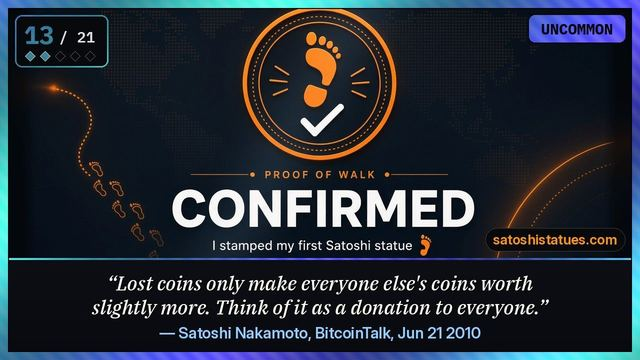
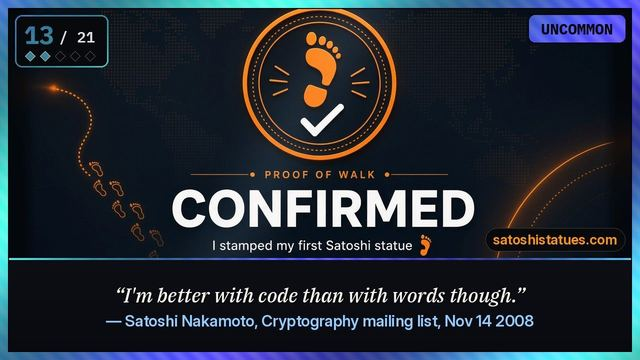
Cards page (PREVIEW, not live): card 13 = code-vs-words quote with its own note and source (cryptography/12), thumbnail regenerated; dialog classes prefixed (cd-*) to avoid clashing with site .bar/.body/.row; no empty img src

Changed region(s): [[0.125, 0.7639, 0.875, 0.9472]]

diff --git a/proof-of-walk/cards/index.html b/proof-of-walk/cards/index.html
@@ -129,13 +129,13 @@ footer.site{border-top:1px solid #30363d;margin-top:30px;padding-top:14px;font-s
 #cd{border:1px solid #30363d;border-radius:12px;padding:0;background:#161b22;color:#e6edf3;width:min(720px,94vw);max-height:92vh;margin:auto}
 #cd::backdrop{background:rgba(0,0,0,.85)}
 #cd img{display:block;width:100%;height:auto}
-#cd .body{padding:12px 16px 16px}
+#cd .cd-body{padding:12px 16px 16px}
 #cd .q{font-size:1.05rem;font-style:italic;margin:8px 0 4px}
 #cd .by{font-size:.85rem;color:#8b949e}
 #cd .n{font-size:.92rem;margin-top:10px}
-#cd .row{display:flex;gap:10px;flex-wrap:wrap;margin-top:12px}
-#cd .bar{display:flex;justify-content:space-between;align-items:center;padding:4px 6px 4px 16px;font-size:.85rem;color:#8b949e;border-bottom:1px solid #30363d}
-#cd .close{width:44px;height:44px;border-radius:50%;border:1px solid #30363d;background:#21262d;color:#e6edf3;font-size:1.1rem;cursor:pointer}
+#cd .cd-row{display:flex;gap:10px;flex-wrap:wrap;margin-top:12px}
+#cd .cd-bar{display:flex;justify-content:space-between;align-items:center;padding:4px 6px 4px 16px;font-size:.85rem;color:#8b949e;border-bottom:1px solid #30363d}
+#cd .cd-close{width:44px;height:44px;border-radius:50%;border:1px solid #30363d;background:#21262d;color:#e6edf3;font-size:1.1rem;cursor:pointer}
 .share-list{list-style:none;display:grid;gap:8px;margin:10px 0}
 .share-list a{display:flex;align-items:center;gap:10px;min-height:44px;padding:8px 12px;border:1px solid #30363d;border-radius:8px;background:#161b22;color:#e6edf3;text-decoration:none;font-size:.92rem}
 .share-list a:hover{border-color:#f7931a;color:#f7931a}
@@ -201,7 +201,7 @@ footer.site{border-top:1px solid #30363d;margin-top:30px;padding-top:14px;font-s
 <li><a class="cc t-common" href="/img/pow-share/confirmed/10.jpg" data-n="10" data-tier="Common" data-quote="We have proposed a system for electronic transactions without relying on trust." data-by="Bitcoin whitepaper, 2008" data-note="The first line of the Bitcoin whitepaper’s conclusion (2008)." data-link="https://bitcoin.org/bitcoin.pdf"><img src="/img/pow-share/thumbs/confirmed/10.jpg" width="640" height="360" loading="lazy" decoding="async" alt="Card 10 of 21, Common: We have proposed a system for electronic transactions without relying on trust."><span class="cc-meta"><span class="cc-no">No. 10</span><span class="tier t-common">Common</span></span><span class="cc-q">We have proposed a system for electronic transactions without relying on trust.</span></a></li>
 <li><a class="cc t-uncommon" href="/img/pow-share/confirmed/11.jpg" data-n="11" data-tier="Uncommon" data-quote="Proof-of-work is essentially one-CPU-one-vote." data-by="Bitcoin whitepaper, 2008" data-note="From section 4 of the Bitcoin whitepaper (2008). Proof of Walk is our walking version of proof-of-work." data-link="https://bitcoin.org/bitcoin.pdf"><img src="/img/pow-share/thumbs/confirmed/11.jpg" width="640" height="360" loading="lazy" decoding="async" alt="Card 11 of 21, Uncommon: Proof-of-work is essentially one-CPU-one-vote."><span class="cc-meta"><span class="cc-no">No. 11</span><span class="tier t-uncommon">Uncommon</span></span><span class="cc-q">Proof-of-work is essentially one-CPU-one-vote.</span></a></li>
 <li><a class="cc t-uncommon" href="/img/pow-share/confirmed/12.jpg" data-n="12" data-tier="Uncommon" data-quote="It might make sense just to get some in case it catches on." data-by="Satoshi Nakamoto, Cryptography list, Jan 16 2009" data-note="Satoshi Nakamoto on the Cryptography mailing list, January 16, 2009, a week after Bitcoin launched." data-link="https://satoshi.nakamotoinstitute.org/emails/cryptography/17/"><img src="/img/pow-share/thumbs/confirmed/12.jpg" width="640" height="360" loading="lazy" decoding="async" alt="Card 12 of 21, Uncommon: It might make sense just to get some in case it catches on."><span class="cc-meta"><span class="cc-no">No. 12</span><span class="tier t-uncommon">Uncommon</span></span><span class="cc-q">It might make sense just to get some in case it catches on.</span></a></li>
-<li><a class="cc t-uncommon" href="/img/pow-share/confirmed/13.jpg" data-n="13" data-tier="Uncommon" data-quote="" data-by="Satoshi Nakamoto, BitcoinTalk, Jun 21 2010" data-note="Satoshi Nakamoto on the BitcoinTalk forum, June 21, 2010, answering what happens to lost coins." data-link="https://bitcointalk.org/index.php?topic=198.msg1647#msg1647"><img src="/img/pow-share/thumbs/confirmed/13.jpg" width="640" height="360" loading="lazy" decoding="async" alt="Card 13 of 21, Uncommon"><span class="cc-meta"><span class="cc-no">No. 13</span><span class="tier t-uncommon">Uncommon</span></span><span class="cc-q">The saying is shown on the card.</span></a></li>
+<li><a class="cc t-uncommon" href="/img/pow-share/confirmed/13.jpg" data-n="13" data-tier="Uncommon" data-quote="I&#x27;m better with code than with words though." data-by="Satoshi Nakamoto, Cryptography mailing list, Nov 14 2008" data-note="Satoshi Nakamoto on the Cryptography mailing list, November 14, 2008, two weeks after sharing the whitepaper." data-link="https://satoshi.nakamotoinstitute.org/emails/cryptography/12/"><img src="/img/pow-share/thumbs/confirmed/13.jpg" width="640" height="360" loading="lazy" decoding="async" alt="Card 13 of 21, Uncommon: I&#x27;m better with code than with words though."><span class="cc-meta"><span class="cc-no">No. 13</span><span class="tier t-uncommon">Uncommon</span></span><span class="cc-q">I&#x27;m better with code than with words though.</span></a></li>
 <li><a class="cc t-uncommon" href="/img/pow-share/confirmed/14.jpg" data-n="14" data-tier="Uncommon" data-quote="If you don&#x27;t believe me or don&#x27;t get it, I don&#x27;t have time to try to convince you, sorry." data-by="Satoshi Nakamoto, BitcoinTalk, Jul 29 2010" data-note="Satoshi Nakamoto on the BitcoinTalk forum, July 29, 2010." data-link="https://bitcointalk.org/index.php?topic=532.msg6306#msg6306"><img src="/img/pow-share/thumbs/confirmed/14.jpg" width="640" height="360" loading="lazy" decoding="async" alt="Card 14 of 21, Uncommon: If you don&#x27;t believe me or don&#x27;t get it, I don&#x27;t have time to try to convince you, sorry."><span class="cc-meta"><span class="cc-no">No. 14</span><span class="tier t-uncommon">Uncommon</span></span><span class="cc-q">If you don&#x27;t believe me or don&#x27;t get it, I don&#x27;t have time to try to convince you, sorry.</span></a></li>
 <li><a class="cc t-uncommon" href="/img/pow-share/confirmed/15.jpg" data-n="15" data-tier="Uncommon" data-quote="The root problem with conventional currency is all the trust that&#x27;s required to make it work." data-by="Satoshi Nakamoto, P2P Foundation, Feb 11 2009" data-note="Satoshi Nakamoto introducing Bitcoin on the P2P Foundation forum, February 11, 2009." data-link="https://satoshi.nakamotoinstitute.org/posts/p2pfoundation/1/"><img src="/img/pow-share/thumbs/confirmed/15.jpg" width="640" height="360" loading="lazy" decoding="async" alt="Card 15 of 21, Uncommon: The root problem with conventional currency is all the trust that&#x27;s required to make it work."><span class="cc-meta"><span class="cc-no">No. 15</span><span class="tier t-uncommon">Uncommon</span></span><span class="cc-q">The root problem with conventional currency is all the trust that&#x27;s required to make it work.</span></a></li>
 <li><a class="cc t-uncommon" href="/img/pow-share/confirmed/16.jpg" data-n="16" data-tier="Uncommon" data-quote="…gain a new territory of freedom for several years." data-by="Satoshi Nakamoto, Cryptography list, Nov 6 2008" data-note="Satoshi Nakamoto on the Cryptography mailing list, November 6, 2008." data-link="https://satoshi.nakamotoinstitute.org/emails/cryptography/4/"><img src="/img/pow-share/thumbs/confirmed/16.jpg" width="640" height="360" loading="lazy" decoding="async" alt="Card 16 of 21, Uncommon: …gain a new territory of freedom for several years."><span class="cc-meta"><span class="cc-no">No. 16</span><span class="tier t-uncommon">Uncommon</span></span><span class="cc-q">…gain a new territory of freedom for several years.</span></a></li>
@@ -224,14 +224,14 @@ footer.site{border-top:1px solid #30363d;margin-top:30px;padding-top:14px;font-s
   </main>
 
   <dialog id="cd" aria-labelledby="cd-no">
-    <div class="bar"><span>Card details</span><button class="close" type="button" aria-label="Close">✕</button></div>
-    <img id="cd-img" src="" alt="">
-    <div class="body">
+    <div class="cd-bar"><span>Card details</span><button class="cd-close" type="button" aria-label="Close">✕</button></div>
+    <img id="cd-img" alt="">
+    <div class="cd-body">
       <span class="cc-no" id="cd-no"></span> <span class="tier" id="cd-tier"></span>
       <p class="q" id="cd-q"></p>
       <p class="by" id="cd-by"></p>
       <p class="n" id="cd-note"></p>
-      <div class="row"><a class="btn" id="cd-link" href="#" target="_blank" rel="noopener">Read the source ↗</a></div>
+      <div class="cd-row"><a class="btn" id="cd-link" href="#" target="_blank" rel="noopener">Read the source ↗</a></div>
     </div>
   </dialog>
 <script>
@@ -250,7 +250,7 @@ footer.site{border-top:1px solid #30363d;margin-top:30px;padding-top:14px;font-s
       d.showModal();
     });
   });
-  d.querySelector('.close').addEventListener('click',function(){d.close()});
+  d.querySelector('.cd-close').addEventListener('click',function(){d.close()});
   d.addEventListener('click',function(e){if(e.target===d)d.close()});
 })();
 </script>

diff --git a/build.py b/build.py
@@ -1846,8 +1846,8 @@ def pow_card_pages(data):
 
 
 # Card text for /proof-of-walk/cards/ (from the card set's sayings.json; notes from the cards-page draft).
-# n: (quote or None, attribution, plain-English note, source link or None). Card 13's quote is held back from the HTML
-# pending Noah's decision (its wording trips the fountain banned-word list); the page shows it only in the card image.
+# n: (quote or None, attribution, plain-English note, source link or None). A None quote is shown only in the card image.
+# Card 13 swapped to the code-vs-words quote (Noah 2026-10-31 08:40 ET).
 POW_CARD_TEXT = {
     1: ('Not your keys, not your coins.', 'Bitcoin saying', 'A popular Bitcoin saying. If someone else holds the keys to your bitcoin, they control it.', None),
     2: ("Don't trust, verify.", 'Bitcoin saying', 'A Bitcoin motto. Bitcoin lets anyone check the rules for themselves instead of trusting someone.', None),
@@ -1861,7 +1861,7 @@ POW_CARD_TEXT = {
     10: ('We have proposed a system for electronic transactions without relying on trust.', 'Bitcoin whitepaper, 2008', 'The first line of the Bitcoin whitepaper’s conclusion (2008).', 'https://bitcoin.org/bitcoin.pdf'),
     11: ('Proof-of-work is essentially one-CPU-one-vote.', 'Bitcoin whitepaper, 2008', 'From section 4 of the Bitcoin whitepaper (2008). Proof of Walk is our walking version of proof-of-work.', 'https://bitcoin.org/bitcoin.pdf'),
     12: ('It might make sense just to get some in case it catches on.', 'Satoshi Nakamoto, Cryptography list, Jan 16 2009', 'Satoshi Nakamoto on the Cryptography mailing list, January 16, 2009, a week after Bitcoin launched.', 'https://satoshi.nakamotoinstitute.org/emails/cryptography/17/'),
-    13: (None, 'Satoshi Nakamoto, BitcoinTalk, Jun 21 2010', 'Satoshi Nakamoto on the BitcoinTalk forum, June 21, 2010, answering what happens to lost coins.', 'https://bitcointalk.org/index.php?topic=198.msg1647#msg1647'),
+    13: ("I'm better with code than with words though.", 'Satoshi Nakamoto, Cryptography mailing list, Nov 14 2008', 'Satoshi Nakamoto on the Cryptography mailing list, November 14, 2008, two weeks after sharing the whitepaper.', 'https://satoshi.nakamotoinstitute.org/emails/cryptography/12/'),
     14: ("If you don't believe me or don't get it, I don't have time to try to convince you, sorry.", 'Satoshi Nakamoto, BitcoinTalk, Jul 29 2010', 'Satoshi Nakamoto on the BitcoinTalk forum, July 29, 2010.', 'https://bitcointalk.org/index.php?topic=532.msg6306#msg6306'),
     15: ("The root problem with conventional currency is all the trust that's required to make it work.", 'Satoshi Nakamoto, P2P Foundation, Feb 11 2009', 'Satoshi Nakamoto introducing Bitcoin on the P2P Foundation forum, February 11, 2009.', 'https://satoshi.nakamotoinstitute.org/posts/p2pfoundation/1/'),
     16: ('…gain a new territory of freedom for several years.', 'Satoshi Nakamoto, Cryptography list, Nov 6 2008', 'Satoshi Nakamoto on the Cryptography mailing list, November 6, 2008.', 'https://satoshi.nakamotoinstitute.org/emails/cryptography/4/'),
@@ -1875,7 +1875,7 @@ POW_CARD_TEXT = {
 POW_CARD_UNITS = {'Common': 7, 'Uncommon': 6, 'Rare': 4, 'Ultra rare': 2, '1 of 121': 1}   # per card, out of 121 (= the Worker's cards.js)
 POW_CARD_CLASS = {'Common': 't-common', 'Uncommon': 't-uncommon', 'Rare': 't-rare', 'Ultra rare': 't-ultra', '1 of 121': 't-genesis'}
 POW_CARDS_RANK = 'confirmed'   # the gallery shows the Confirmed set (same 21 sayings and frames on every rank)
-POW_CARDS_CSS = '.strip{display:grid;grid-template-columns:repeat(3,1fr);gap:8px;margin:6px 0 16px}\n.strip img,.rank img,.gen img{display:block;width:100%;height:auto;border-radius:8px;border:1px solid #30363d;background:#161b22}\n.strip figcaption{font-size:.75rem;color:#8b949e;margin-top:4px;text-align:center}\n.ranks{list-style:none;display:grid;gap:12px}\n.rank{display:grid;grid-template-columns:minmax(0,1fr) minmax(0,1.3fr);gap:14px;align-items:center;background:#161b22;border:1px solid #30363d;border-radius:10px;padding:12px}\n.rank h3{font-size:1.05rem;color:#f7931a;margin-bottom:2px}.rank p{font-size:.92rem;color:#c9d1d9}\n.rank .step{display:inline-block;font-size:.72rem;font-weight:700;color:#8b949e;letter-spacing:.04em;text-transform:uppercase}\n.tiers{list-style:none;border:1px solid #30363d;border-radius:10px;background:#161b22;overflow:hidden}\n.tiers li{display:grid;grid-template-columns:52px minmax(0,1fr) auto;gap:12px;align-items:center;padding:12px;border-bottom:1px solid #30363d}\n.tiers li:last-child{border-bottom:0}\n.sw{width:52px;height:34px;border-radius:6px;border:1px solid #30363d}\n.tiers strong{display:block}.tiers .desc{font-size:.85rem;color:#8b949e}\n.tiers .pct{font-weight:800;font-size:1.05rem;text-align:right;white-space:nowrap}.tiers .pct small{display:block;font-size:.7rem;font-weight:400;color:#8b949e}\n.tier{display:inline-block;font-size:.72rem;font-weight:700;border-radius:4px;padding:1px 7px;color:#0d1117}\n.t-common{--f:linear-gradient(135deg,#8a5a2b,#e8b07a 45%,#7a4a1f)}\n.t-uncommon{--f:linear-gradient(135deg,#1f6f8b,#7fe3f0 40%,#2a9d8f 70%,#9be7c4)}\n.t-rare{--f:linear-gradient(135deg,#ff6b6b,#ffd93d,#6bff95,#4dd2ff)}\n.t-ultra{--f:linear-gradient(135deg,#ff4d4d,#ffb84d,#f9ff4d,#4dff88,#4dc3ff,#a64dff,#ff4dd2)}\n.t-genesis{--f:conic-gradient(from 0deg,#ff4d4d,#ffb84d,#f9ff4d,#4dff88,#4dc3ff,#a64dff,#ff4dd2,#ff4d4d)}\n.sw,.tier{background:var(--f)}\n.gen{display:grid;grid-template-columns:minmax(0,1.2fr) minmax(0,1fr);gap:14px;align-items:center;background:#1f1a0d;border:1px solid #6e5a1e;border-radius:10px;padding:14px;margin:10px 0}\n.gen h3{color:#ffdf80;font-size:1.05rem;margin-bottom:6px}.gen p{font-size:.92rem;color:#e6edf3}.gen p+p{margin-top:8px}\n.gen code{display:block;font-family:ui-monospace,SFMono-Regular,Menlo,monospace;font-size:.88rem;color:#ffdf80;background:#0d1117;border:1px dashed #6e5a1e;border-radius:8px;padding:8px 10px;margin:8px 0;overflow-wrap:anywhere}\n.grid{list-style:none;display:grid;grid-template-columns:repeat(auto-fill,minmax(240px,1fr));gap:10px}\n.cc{all:unset;text-decoration:none;color:inherit;box-sizing:border-box;display:flex;flex-direction:column;width:100%;height:100%;cursor:pointer;background:#161b22;border:1px solid #30363d;border-radius:10px;overflow:hidden}\n.cc:hover,.cc:focus-visible{border-color:#f7931a;outline:none}\n.cc img{display:block;width:100%;height:auto;aspect-ratio:16/9}\n.cc-meta{display:flex;justify-content:space-between;align-items:center;padding:8px 10px 2px}\n.cc-no{font-family:ui-monospace,SFMono-Regular,Menlo,monospace;font-weight:700;font-size:.85rem;color:#e6edf3}\n.cc-q{display:block;padding:2px 10px 10px;font-size:.85rem;color:#c9d1d9;font-style:italic}\n#cd{border:1px solid #30363d;border-radius:12px;padding:0;background:#161b22;color:#e6edf3;width:min(720px,94vw);max-height:92vh;margin:auto}\n#cd::backdrop{background:rgba(0,0,0,.85)}\n#cd img{display:block;width:100%;height:auto}\n#cd .body{padding:12px 16px 16px}\n#cd .q{font-size:1.05rem;font-style:italic;margin:8px 0 4px}\n#cd .by{font-size:.85rem;color:#8b949e}\n#cd .n{font-size:.92rem;margin-top:10px}\n#cd .row{display:flex;gap:10px;flex-wrap:wrap;margin-top:12px}\n#cd .bar{display:flex;justify-content:space-between;align-items:center;padding:4px 6px 4px 16px;font-size:.85rem;color:#8b949e;border-bottom:1px solid #30363d}\n#cd .close{width:44px;height:44px;border-radius:50%;border:1px solid #30363d;background:#21262d;color:#e6edf3;font-size:1.1rem;cursor:pointer}\n.share-list{list-style:none;display:grid;gap:8px;margin:10px 0}\n.share-list a{display:flex;align-items:center;gap:10px;min-height:44px;padding:8px 12px;border:1px solid #30363d;border-radius:8px;background:#161b22;color:#e6edf3;text-decoration:none;font-size:.92rem}\n.share-list a:hover{border-color:#f7931a;color:#f7931a}\n@media (max-width:600px){.brand-logo{height:36px}.top .tagline{font-size:.72rem;padding-left:10px}.top nav{width:100%}h1{font-size:1.4rem}\n.rank,.gen{grid-template-columns:1fr}.strip{gap:6px}.tiers li{grid-template-columns:40px minmax(0,1fr) auto;gap:10px}.sw{width:40px;height:28px}.grid{grid-template-columns:1fr 1fr;gap:8px}.cc-q{font-size:.8rem}}\n@media (max-width:360px){.grid{grid-template-columns:1fr}}'
+POW_CARDS_CSS = '.strip{display:grid;grid-template-columns:repeat(3,1fr);gap:8px;margin:6px 0 16px}\n.strip img,.rank img,.gen img{display:block;width:100%;height:auto;border-radius:8px;border:1px solid #30363d;background:#161b22}\n.strip figcaption{font-size:.75rem;color:#8b949e;margin-top:4px;text-align:center}\n.ranks{list-style:none;display:grid;gap:12px}\n.rank{display:grid;grid-template-columns:minmax(0,1fr) minmax(0,1.3fr);gap:14px;align-items:center;background:#161b22;border:1px solid #30363d;border-radius:10px;padding:12px}\n.rank h3{font-size:1.05rem;color:#f7931a;margin-bottom:2px}.rank p{font-size:.92rem;color:#c9d1d9}\n.rank .step{display:inline-block;font-size:.72rem;font-weight:700;color:#8b949e;letter-spacing:.04em;text-transform:uppercase}\n.tiers{list-style:none;border:1px solid #30363d;border-radius:10px;background:#161b22;overflow:hidden}\n.tiers li{display:grid;grid-template-columns:52px minmax(0,1fr) auto;gap:12px;align-items:center;padding:12px;border-bottom:1px solid #30363d}\n.tiers li:last-child{border-bottom:0}\n.sw{width:52px;height:34px;border-radius:6px;border:1px solid #30363d}\n.tiers strong{display:block}.tiers .desc{font-size:.85rem;color:#8b949e}\n.tiers .pct{font-weight:800;font-size:1.05rem;text-align:right;white-space:nowrap}.tiers .pct small{display:block;font-size:.7rem;font-weight:400;color:#8b949e}\n.tier{display:inline-block;font-size:.72rem;font-weight:700;border-radius:4px;padding:1px 7px;color:#0d1117}\n.t-common{--f:linear-gradient(135deg,#8a5a2b,#e8b07a 45%,#7a4a1f)}\n.t-uncommon{--f:linear-gradient(135deg,#1f6f8b,#7fe3f0 40%,#2a9d8f 70%,#9be7c4)}\n.t-rare{--f:linear-gradient(135deg,#ff6b6b,#ffd93d,#6bff95,#4dd2ff)}\n.t-ultra{--f:linear-gradient(135deg,#ff4d4d,#ffb84d,#f9ff4d,#4dff88,#4dc3ff,#a64dff,#ff4dd2)}\n.t-genesis{--f:conic-gradient(from 0deg,#ff4d4d,#ffb84d,#f9ff4d,#4dff88,#4dc3ff,#a64dff,#ff4dd2,#ff4d4d)}\n.sw,.tier{background:var(--f)}\n.gen{display:grid;grid-template-columns:minmax(0,1.2fr) minmax(0,1fr);gap:14px;align-items:center;background:#1f1a0d;border:1px solid #6e5a1e;border-radius:10px;padding:14px;margin:10px 0}\n.gen h3{color:#ffdf80;font-size:1.05rem;margin-bottom:6px}.gen p{font-size:.92rem;color:#e6edf3}.gen p+p{margin-top:8px}\n.gen code{display:block;font-family:ui-monospace,SFMono-Regular,Menlo,monospace;font-size:.88rem;color:#ffdf80;background:#0d1117;border:1px dashed #6e5a1e;border-radius:8px;padding:8px 10px;margin:8px 0;overflow-wrap:anywhere}\n.grid{list-style:none;display:grid;grid-template-columns:repeat(auto-fill,minmax(240px,1fr));gap:10px}\n.cc{all:unset;text-decoration:none;color:inherit;box-sizing:border-box;display:flex;flex-direction:column;width:100%;height:100%;cursor:pointer;background:#161b22;border:1px solid #30363d;border-radius:10px;overflow:hidden}\n.cc:hover,.cc:focus-visible{border-color:#f7931a;outline:none}\n.cc img{display:block;width:100%;height:auto;aspect-ratio:16/9}\n.cc-meta{display:flex;justify-content:space-between;align-items:center;padding:8px 10px 2px}\n.cc-no{font-family:ui-monospace,SFMono-Regular,Menlo,monospace;font-weight:700;font-size:.85rem;color:#e6edf3}\n.cc-q{display:block;padding:2px 10px 10px;font-size:.85rem;color:#c9d1d9;font-style:italic}\n#cd{border:1px solid #30363d;border-radius:12px;padding:0;background:#161b22;color:#e6edf3;width:min(720px,94vw);max-height:92vh;margin:auto}\n#cd::backdrop{background:rgba(0,0,0,.85)}\n#cd img{display:block;width:100%;height:auto}\n#cd .cd-body{padding:12px 16px 16px}\n#cd .q{font-size:1.05rem;font-style:italic;margin:8px 0 4px}\n#cd .by{font-size:.85rem;color:#8b949e}\n#cd .n{font-size:.92rem;margin-top:10px}\n#cd .cd-row{display:flex;gap:10px;flex-wrap:wrap;margin-top:12px}\n#cd .cd-bar{display:flex;justify-content:space-between;align-items:center;padding:4px 6px 4px 16px;font-size:.85rem;color:#8b949e;border-bottom:1px solid #30363d}\n#cd .cd-close{width:44px;height:44px;border-radius:50%;border:1px solid #30363d;background:#21262d;color:#e6edf3;font-size:1.1rem;cursor:pointer}\n.share-list{list-style:none;display:grid;gap:8px;margin:10px 0}\n.share-list a{display:flex;align-items:center;gap:10px;min-height:44px;padding:8px 12px;border:1px solid #30363d;border-radius:8px;background:#161b22;color:#e6edf3;text-decoration:none;font-size:.92rem}\n.share-list a:hover{border-color:#f7931a;color:#f7931a}\n@media (max-width:600px){.brand-logo{height:36px}.top .tagline{font-size:.72rem;padding-left:10px}.top nav{width:100%}h1{font-size:1.4rem}\n.rank,.gen{grid-template-columns:1fr}.strip{gap:6px}.tiers li{grid-template-columns:40px minmax(0,1fr) auto;gap:10px}.sw{width:40px;height:28px}.grid{grid-template-columns:1fr 1fr;gap:8px}.cc-q{font-size:.8rem}}\n@media (max-width:360px){.grid{grid-template-columns:1fr}}'
 
 
 def pow_card_thumb(slug, n):
@@ -1931,7 +1931,7 @@ POW_CARDS_JS = r"""<script>
       d.showModal();
     });
   });
-  d.querySelector('.close').addEventListener('click',function(){d.close()});
+  d.querySelector('.cd-close').addEventListener('click',function(){d.close()});
   d.addEventListener('click',function(e){if(e.target===d)d.close()});
 })();
 </script>"""
@@ -2005,14 +2005,14 @@ def pow_cards_page(data):
   </main>
 
   <dialog id="cd" aria-labelledby="cd-no">
-    <div class="bar"><span>Card details</span><button class="close" type="button" aria-label="Close">✕</button></div>
-    <img id="cd-img" src="" alt="">
-    <div class="body">
+    <div class="cd-bar"><span>Card details</span><button class="cd-close" type="button" aria-label="Close">✕</button></div>
+    <img id="cd-img" alt="">
+    <div class="cd-body">
       <span class="cc-no" id="cd-no"></span> <span class="tier" id="cd-tier"></span>
       <p class="q" id="cd-q"></p>
       <p class="by" id="cd-by"></p>
       <p class="n" id="cd-note"></p>
-      <div class="row"><a class="btn" id="cd-link" href="#" target="_blank" rel="noopener">Read the source ↗</a></div>
+      <div class="cd-row"><a class="btn" id="cd-link" href="#" target="_blank" rel="noopener">Read the source ↗</a></div>
     </div>
   </dialog>
 """
